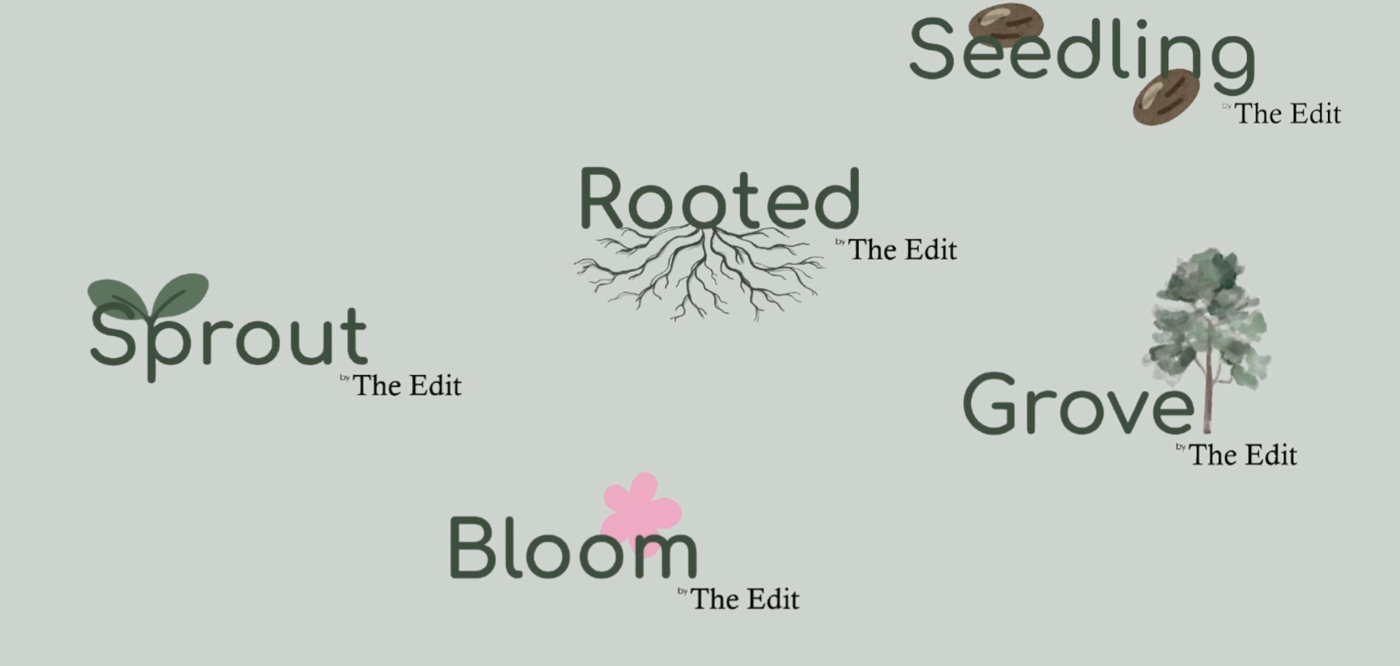
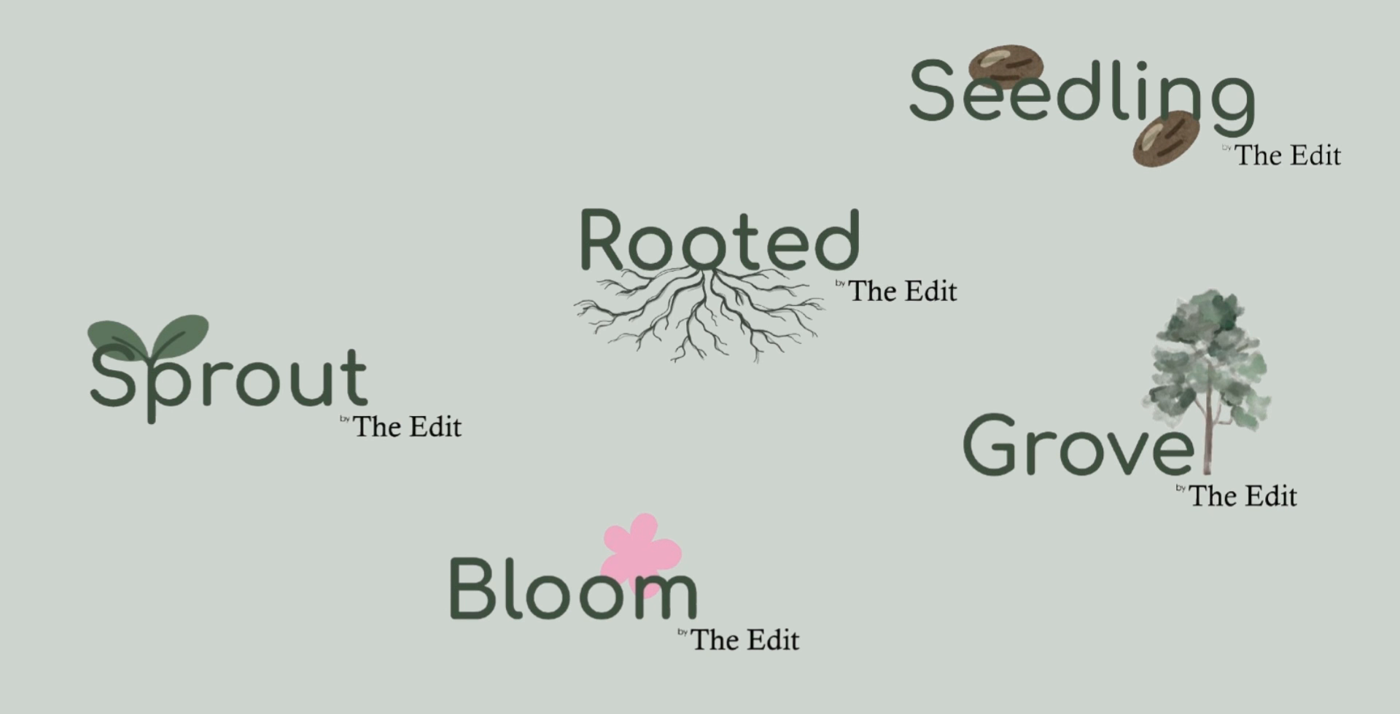
Fix daughter companies image crop
Claude-Session: https://claude.ai/code/session_01BWeFmVyaP1m6wcb2STqMdW

diff --git a/index.html b/index.html
@@ -302,7 +302,7 @@
       <p class="eyebrow">Daughter companies</p>
       <h2>One mission, five ways to act on it.</h2>
       <p class="lede">Through our daughter companies, we inform, we acknowledge, we supply, and we care for people and the environment.</p>
-      <img src="daughter-companies.png" width="1400" height="666" alt="Sprout by The Edit, Rooted by The Edit, Seedling by The Edit, Grove by The Edit, and Bloom by The Edit">
+      <img src="daughter-companies.png?v=2" width="1400" height="714" alt="Sprout by The Edit, Rooted by The Edit, Seedling by The Edit, Grove by The Edit, and Bloom by The Edit">
     </div>
   </section>
 
